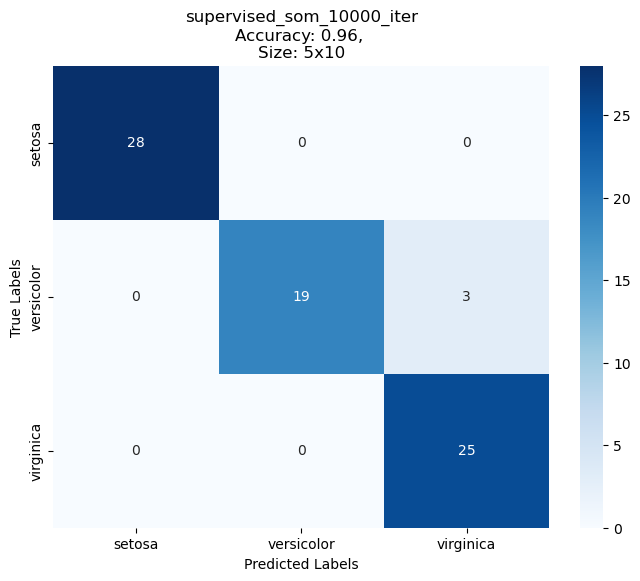
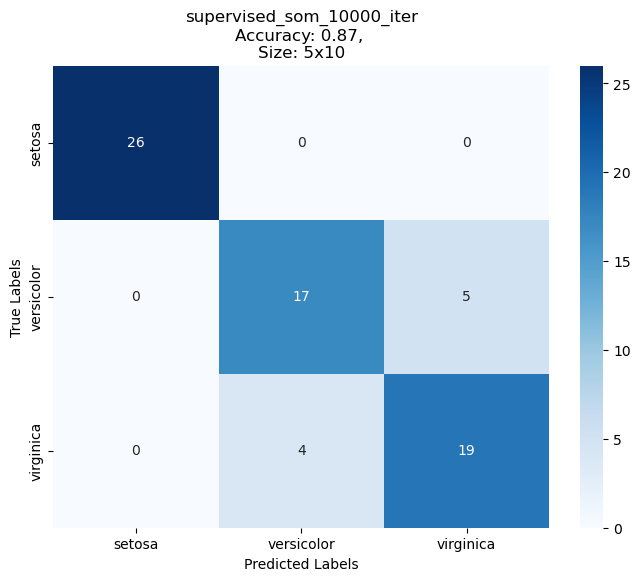
Implemented majority voting, better results then supervised training

diff --git a/iris_majority.py b/iris_majority.py
@@ -1,5 +1,5 @@
 import numpy as np
-from typing import List, Dict, Optional
+from typing import List, Dict, Optional, Tuple, Union
 from sklearn.metrics import confusion_matrix, classification_report, accuracy_score
 
 # import pandas as pd
@@ -12,8 +12,11 @@ import susi
 from susi.SOMPlots import plot_nbh_dist_weight_matrix, plot_umatrix
 
 
-def getNeuronClasses(som: susi.SOMClustering, X_train, y_train):
+def getNeuronClasses(
+    som: susi.SOMClustering, X_train: np.ndarray, y_train: np.ndarray
+) -> List[List[Optional[int]]]:
 
+    n_cols, n_rows = som.n_columns, som.n_rows
     neuron_votes: List[List[Dict[int, int]]] = [
         [{} for _ in range(n_cols)] for _ in range(n_rows)
     ]
@@ -21,19 +24,16 @@ def getNeuronClasses(som: susi.SOMClustering, X_train, y_train):
     for bmu, y in zip(som.get_bmus(X_train), y_train):
         # Find the BMU for this instance
         # bmu is a tuple (bmu_x, bmu_y) representing the position of the BMU in the grid
-
-        # If the class label y is not yet in the dictionary for this neuron, initialize it
         if y not in neuron_votes[bmu[0]][bmu[1]]:
             neuron_votes[bmu[0]][bmu[1]][y] = 0
-
         # Increment the vote for this class for the neuron
         neuron_votes[bmu[0]][bmu[1]][y] += 1
 
-    # Decide the class for each neuron by majority voting
     neuron_classes: List[List[Optional[int]]] = [
         [None for _ in range(n_cols)] for _ in range(n_rows)
     ]
 
+    # Decide the class for each neuron by majority voting
     for i in range(n_rows):
         for j in range(n_cols):
             if neuron_votes[i][j]:
@@ -45,9 +45,16 @@ def getNeuronClasses(som: susi.SOMClustering, X_train, y_train):
 
 
 def createReportAndConfussionMatrix(
-    som, X_test, y_test, data, title: str, filename: str
+    som: Union[susi.SOMClassifier, susi.SOMClustering],
+    X_test,
+    y_test,
+    data,
+    title: str,
+    filename: str,
+    y_pred=None,
 ):
-    y_pred = som.predict(X_test)
+    if y_pred is None:
+        y_pred = som.predict(X_test)
     cm = confusion_matrix(y_test, y_pred)
     # report = classification_report(
     #     y_test, y_pred, target_names=data.target_names, output_dict=True
@@ -75,6 +82,39 @@ def createReportAndConfussionMatrix(
     plt.show()
 
 
+def filter_and_predict_test_samples(
+    som, X_test, y_test, labeled_neurons
+) -> Tuple[np.ndarray, np.ndarray, np.ndarray]:
+    """
+    Filters test samples based on assigned BMU classes and predicts their classes.
+
+    Parameters:
+    - som: The trained SOM model used to find BMUs for the test samples.
+    - X_test: The test set features.
+    - y_test: The actual labels for the test set.
+    - labeled_neurons: A structure containing class labels for each neuron in the SOM.
+
+    Returns:
+    - new_x_test: The filtered test set features that have an assigned class.
+    - new_y_test: The actual labels corresponding to the filtered test set features.
+    - y_pred: The predicted classes for the filtered test set features.
+    """
+    bmus = som.get_bmus(X_test)
+    y_pred = np.array([])
+    new_x_test, new_y_test = np.empty((0, X_test.shape[1])), np.array([])
+    for i, neuron_pos in enumerate(bmus):
+        neuron_class = labeled_neurons[neuron_pos[0]][neuron_pos[1]]
+        if neuron_class is None:
+            continue
+        new_x_test = np.vstack([new_x_test, X_test[i]])
+        new_y_test = np.append(new_y_test, y_test[i]).astype(int)
+        y_pred = np.append(y_pred, neuron_class).astype(int)
+    assert len(new_x_test) == len(
+        new_y_test
+    ), "Mismatch in filtered test samples and labels length."
+    return new_x_test, new_y_test, y_pred
+
+
 def runSom(n_rows: int, n_cols: int, iterations: int):
     # n_features = 5
     iris = datasets.load_iris()
@@ -93,62 +133,45 @@ def runSom(n_rows: int, n_cols: int, iterations: int):
         n_iter_unsupervised=iterations,
         n_iter_supervised=iterations,
         init_mode_supervised="majority",
+        random_state=55,
     )
-
-    unsupervised_som = susi.SOMClassifier(
-        n_rows=n_rows,
-        n_columns=n_cols,
-        n_iter_unsupervised=iterations,
-        n_iter_supervised=0,
-        init_mode_supervised="majority",
-    )
-
-    # meow_som = susi.SOMClustering(n_rows, n_cols, n_iter_unsupervised=iterations)
-    # meow_som.fit(X_train)
-    # meow = getNeuronClasses(meow_som, X_train, y_train)
-    # bmus = meow_som.get_bmus(X_test)
-    #
-    # accuracy = accuracy_score(y_test, bmus)
-    # print(accuracy)
-    # exit()
-
-    unsupervised_som.fit(X_train, y_train)
     supervised_som.fit(X_train, y_train)
-    # unsupervised_classes = getNeuronClasses(unsupervised_som, X_train, y_train)
-    # supervised_classes = getNeuronClasses(supervised_som, X_train, y_train)
+
+    majority_som = susi.SOMClustering(
+        n_rows=n_rows, n_columns=n_cols, n_iter_unsupervised=iterations, random_state=55
+    )
+    majority_som.fit(X_train)
+
+    labeled_neurons = getNeuronClasses(majority_som, X_train, y_train)
+    filtered_x_test, filtered_y_test, majority_pred = filter_and_predict_test_samples(
+        majority_som, X_test, y_test, labeled_neurons
+    )
 
     createReportAndConfussionMatrix(
         supervised_som,
-        X_test,
-        y_test,
+        filtered_x_test,
+        filtered_y_test,
         iris,
         f"supervised_som_{iterations}_iter",
         f"supervised_{iterations}_iter_{n_cols}x{n_rows}",
     )
 
     createReportAndConfussionMatrix(
-        unsupervised_som,
-        X_test,
-        y_test,
+        majority_som,
+        filtered_x_test,
+        filtered_y_test,
         iris,
-        f"unsupervised_som_{iterations}_iter",
+        f"unsupervised_som_{iterations}_iter_majority_voting",
         f"unsupervised_{iterations}_iter_{n_cols}x{n_rows}",
+        majority_pred,
     )
 
 
 if __name__ == "__main__":
-    # map_sizes = [(5, 5), (5, 10)]
-    # iterations = [1000, 10000]
     map_sizes = [(5, 10)]
     iterations = [10000]
+    # map_sizes = [(10, 5)]
+    # iterations = [1000, 5000, 10000]
     for n_cols, n_rows in map_sizes:
         for iter in iterations:
-            print("wat")
             runSom(n_rows, n_cols, iter)
-# TODO
-# labels = iris.target
-# data = pd.DataFrame(iris.data[::4])
-# data.columns = iris.feature_names
-
-
-# get the data
